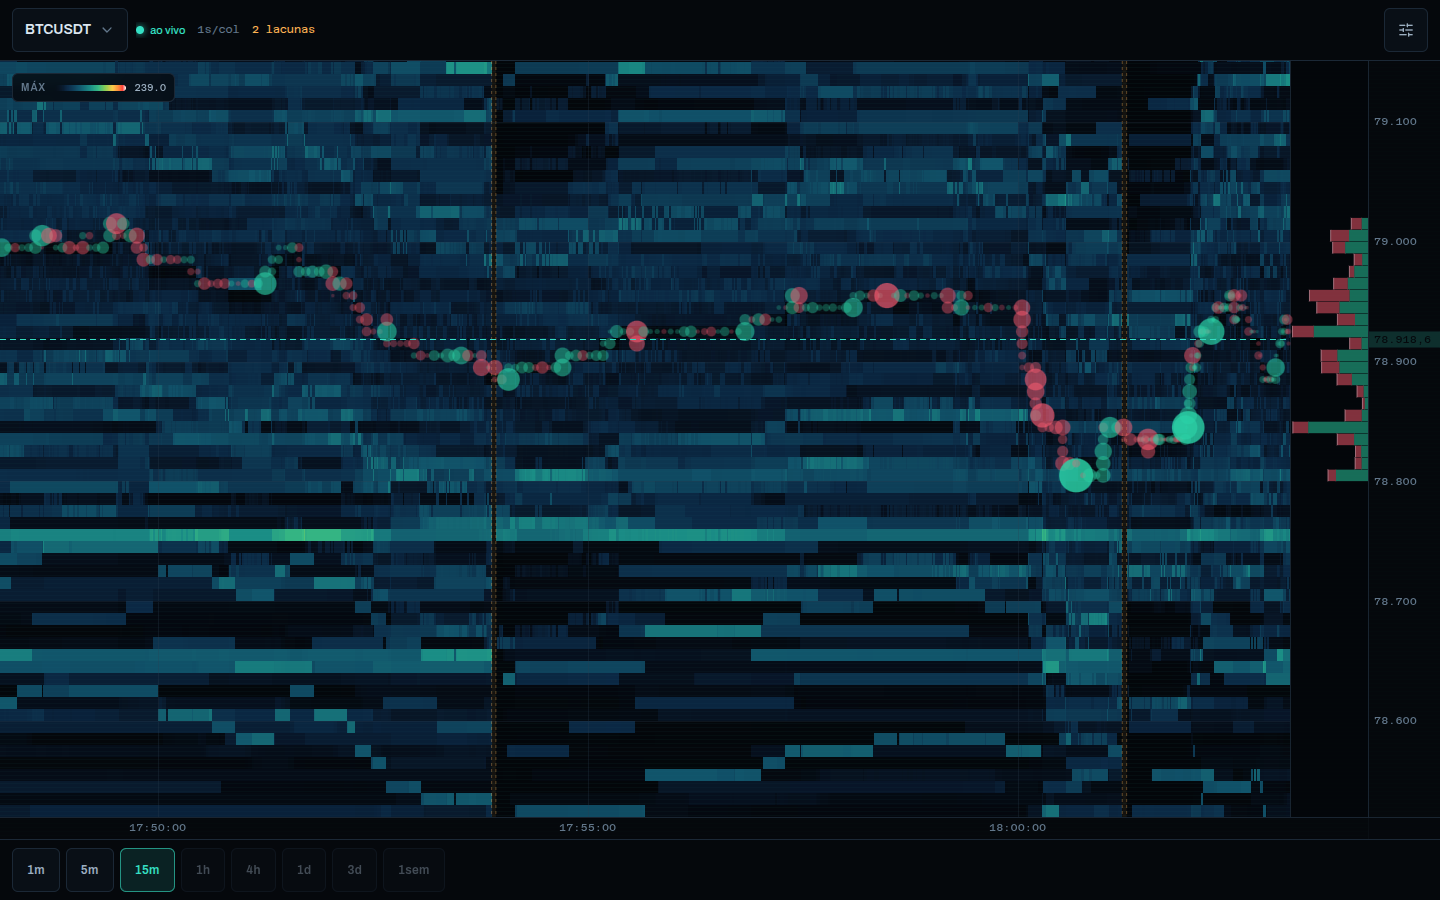
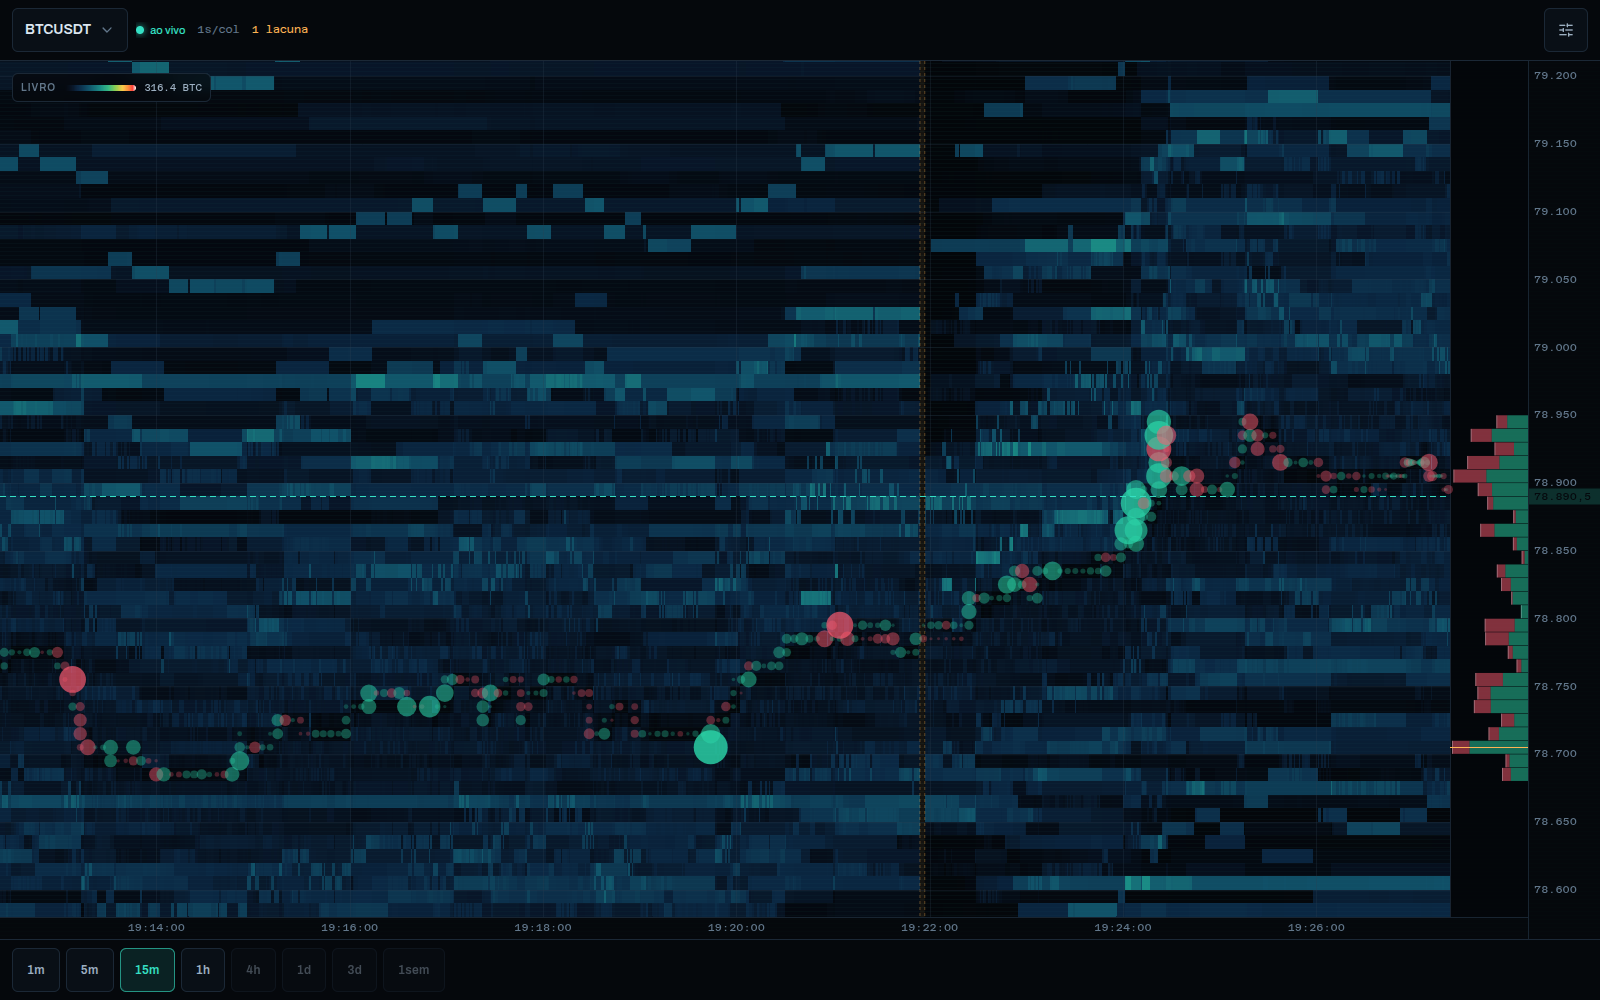
docs: explain how to read the chart and refresh the screenshot

diff --git a/README.md b/README.md
@@ -40,6 +40,28 @@ pnpm gateway                  # serve a API e a interface em http://localhost:87
 Para deixar rodando de verdade, veja [docs/operations.md](docs/operations.md) — há
 unidades `systemd` prontas que sobrevivem a logout e reboot.
 
+## Como ler o gráfico
+
+| Elemento | O que é |
+| --- | --- |
+| Faixas horizontais | Liquidez parada no livro. Quanto mais quente, maior o tamanho |
+| Bolhas | Agressões: ordens a mercado que cruzaram o spread. Verde comprou, vermelho vendeu |
+| Linha tracejada ciano | Preço do livro na borda direita da janela |
+| Faixas âmbar tracejadas | Períodos sem gravação |
+| Painel à direita | Volume negociado por faixa de preço na janela |
+| Linha âmbar no painel | Faixa que mais negociou — para onde o preço costuma voltar |
+| Legenda `LIVRO` | Tamanho que satura a cor. É relativo à janela, não absoluto |
+
+Passe o cursor (ou o dedo) para ver, num ponto: quanto está parado no livro ali e
+quanto foi negociado naquela célula.
+
+**Gestos:** um dedo arrasta, dois dedos dão zoom nos dois eixos ao mesmo tempo. No
+desktop, a roda dá zoom no tempo e `shift` + roda no preço; duplo clique volta ao
+tempo real.
+
+O eixo de preço se recentra sozinho quando o preço sai da tela, mas só quando sai
+de vez — se você parkou o eixo numa parede, ele fica onde você deixou.
+
 ## Uso no celular
 
 O gateway serve a API **e** a interface na mesma porta, e escuta em `0.0.0.0`.
